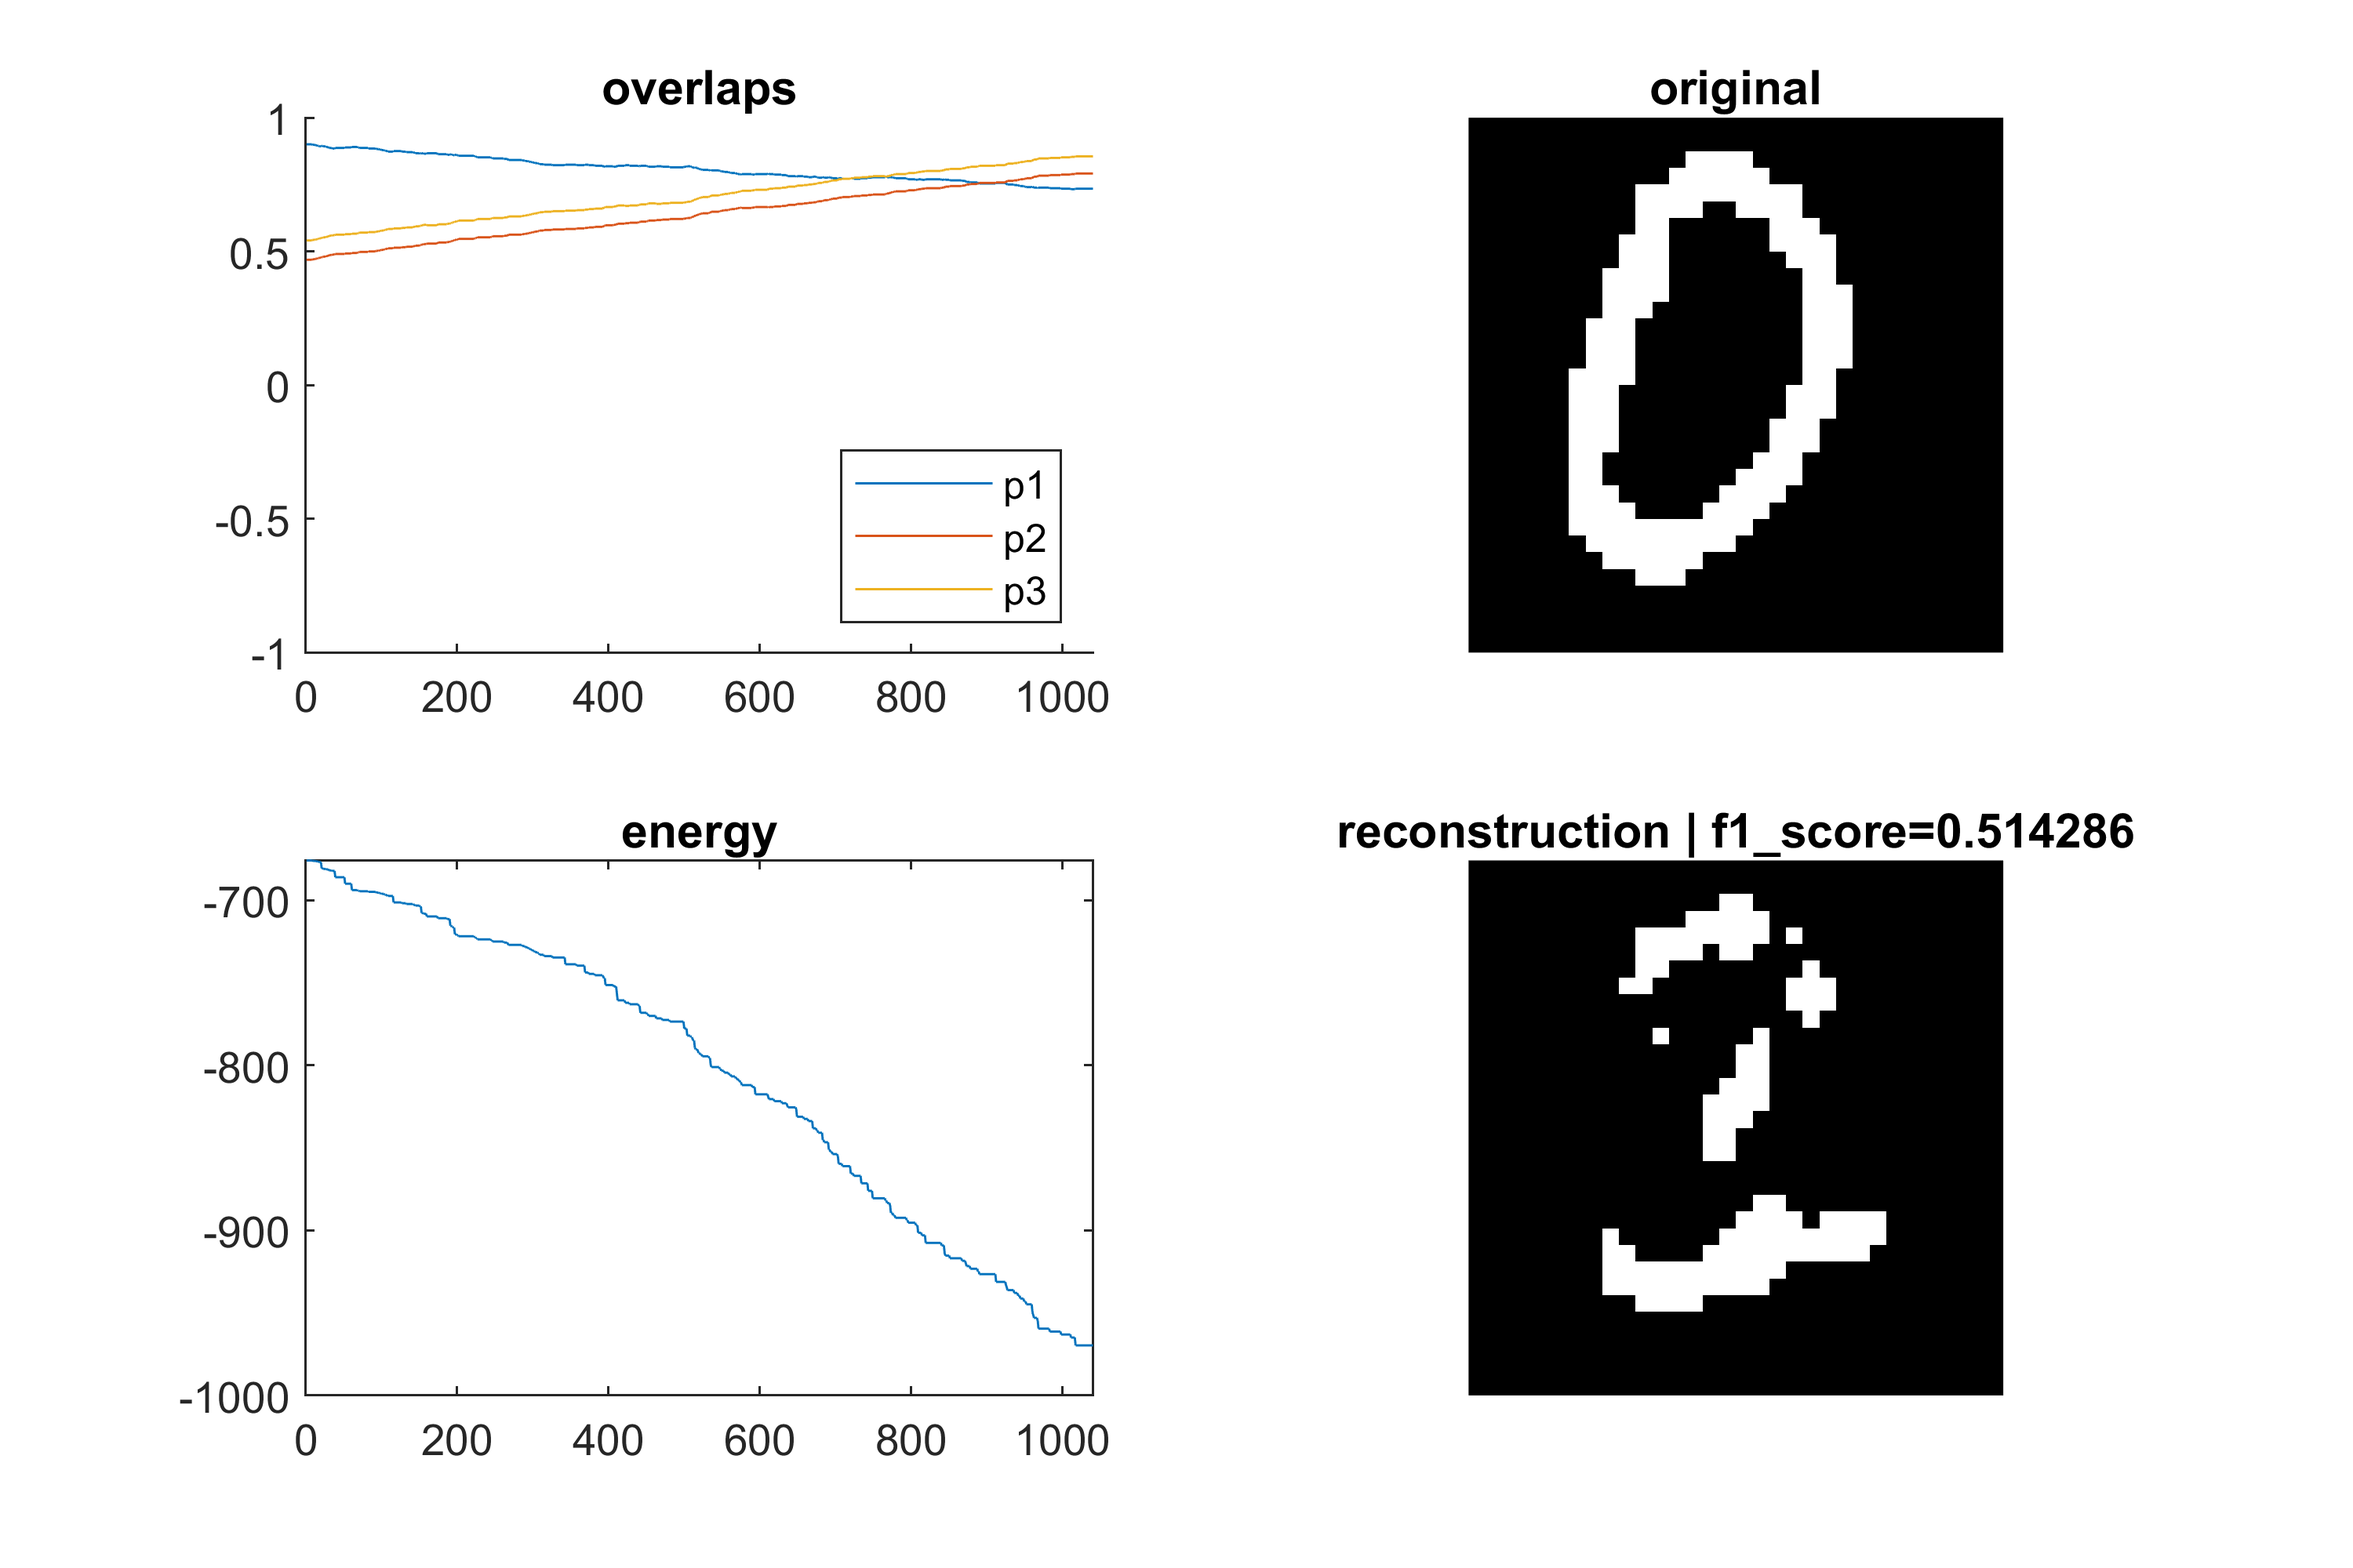
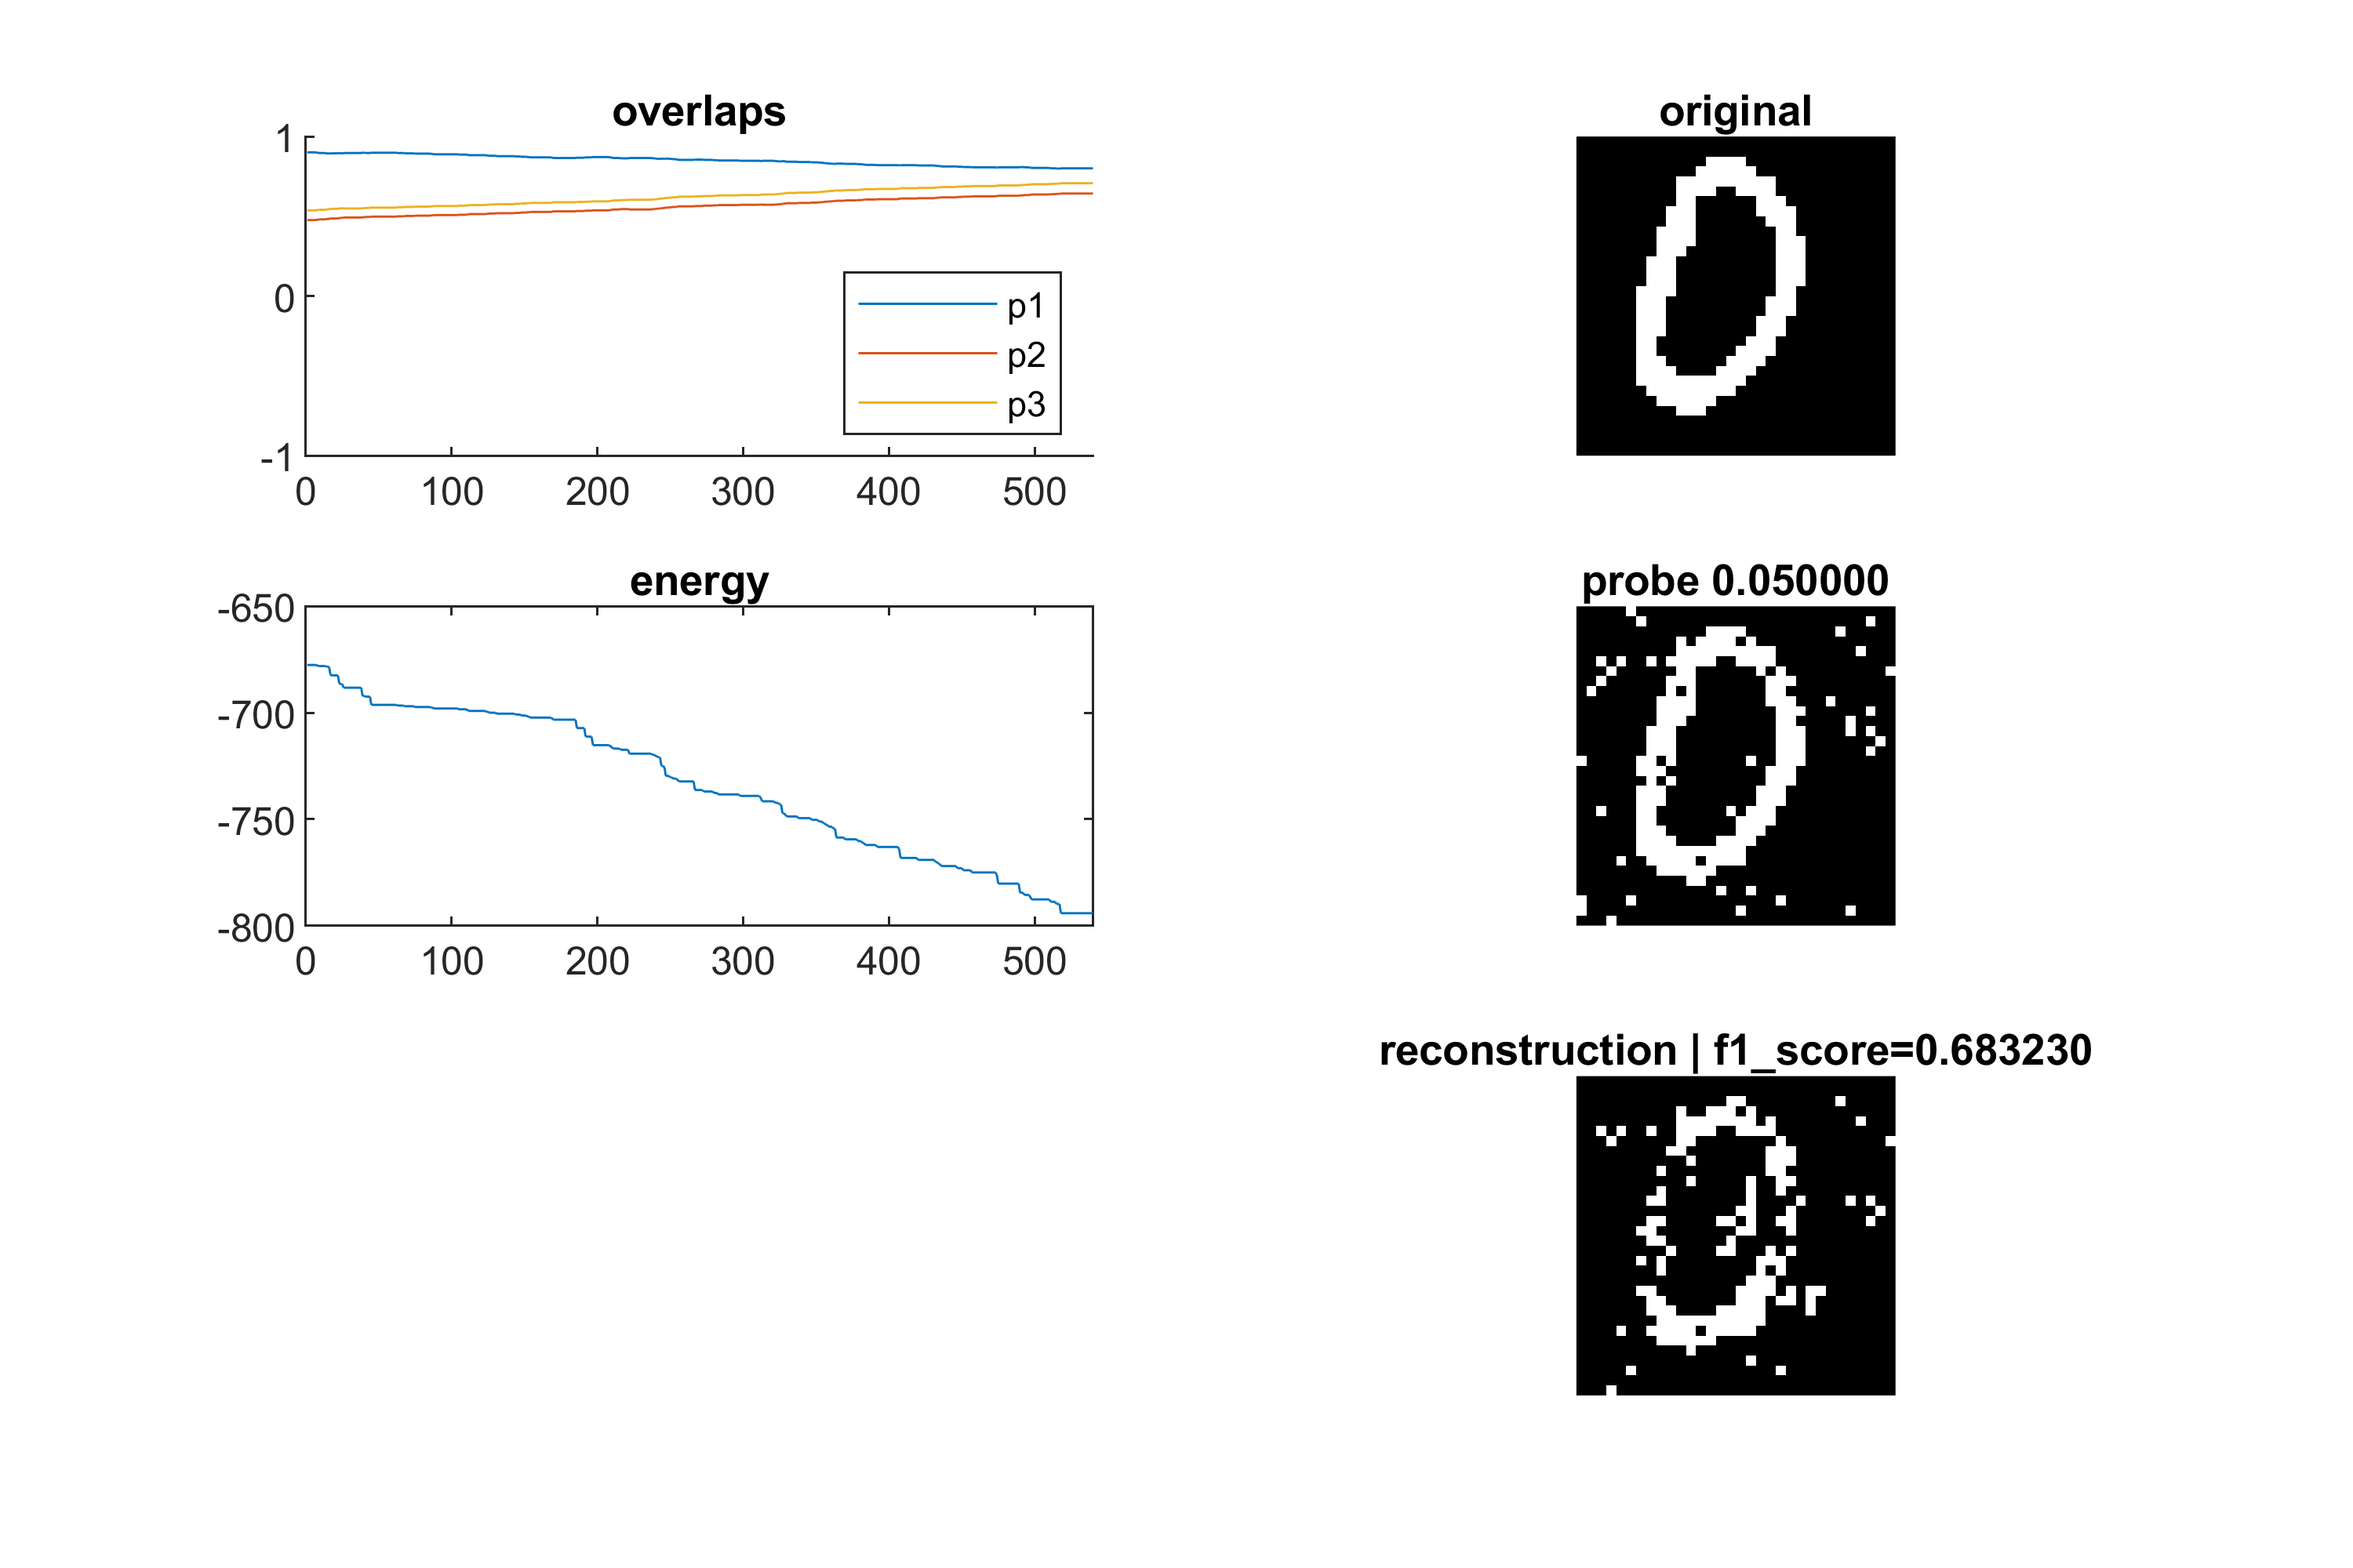
add probe to lab 2.2 images

diff --git a/LAB2 2/assignment_1.m b/LAB2 2/assignment_1.m
@@ -26,9 +26,10 @@ for p=1:size(patterns,1)
         
         [reconstruction, energy_hist, overlap_hists, x_hist] = net.retrieve(probe, epochs, tol, patience);
 
+        % PLOTTING
         clf
 
-        subplot(2,2,1)
+        subplot(3,2,1)
         hold on
 
         for mu=1:size(patterns,1)
@@ -45,21 +46,23 @@ for p=1:size(patterns,1)
         end
         legend(lgnd, Location='southeast')
 
-        subplot(2,2,3)
+        subplot(3,2,3)
         plot(energy_hist)
         xlim([0 length(energy_hist)])
         title("energy")
 
-        subplot(2,2,2)
+        subplot(3,2,2)
         imshow(reshape(original_pattern, 32,32))
         title("original")
 
+        subplot(3,2,4)
+        imshow(reshape(probe, 32,32))
+        t=title(sprintf("probe %f", distortions(d)));
+        set(t,'Interpreter','none')
 
-        subplot(2,2,4)
+        subplot(3,2,6)
         imshow(reshape(reconstruction, 32,32))
-        
         t=title(sprintf("reconstruction | f1_score=%f", f1_score(original_pattern, reconstruction)));
-        
         set(t,'Interpreter','none')
         % set figure units to pixels & adjust figure size
         set(fh, 'visible', 'off');
@@ -78,6 +81,7 @@ for p=1:size(patterns,1)
         end
         
         print(fh,sprintf("figures/p%d_distorted%.2f.png", p,distortions(d)),'-dpng',sprintf('-r%d',res))
+
     end
 
 end
